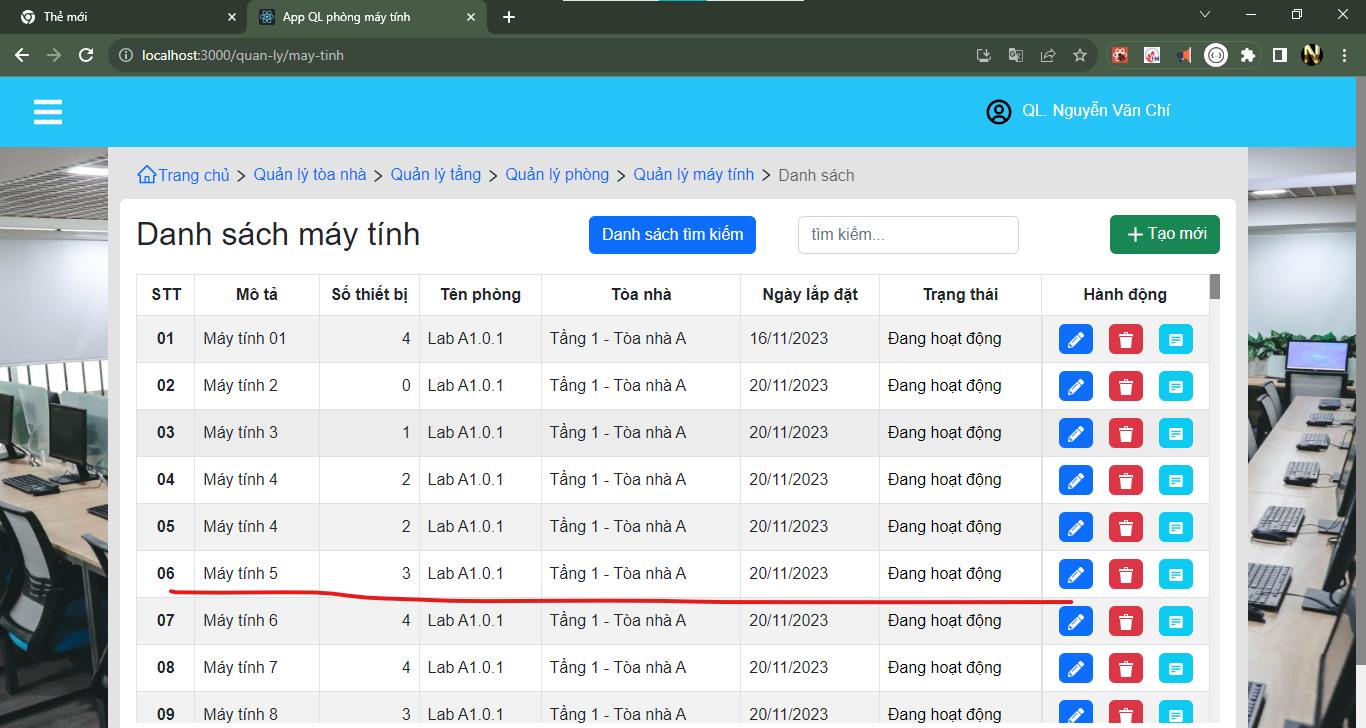
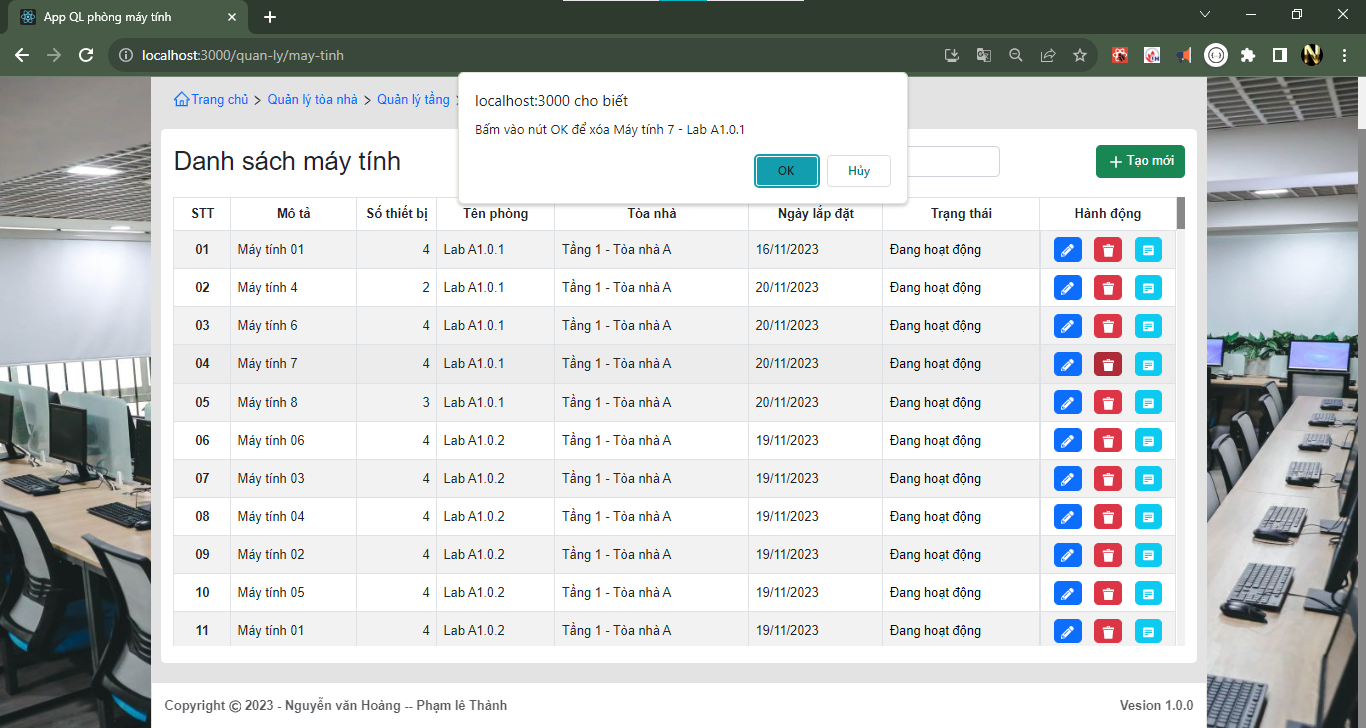
QLMayTinh - finish del api

diff --git a/src/redux/reducers/mayTinhReducer.jsx b/src/redux/reducers/mayTinhReducer.jsx
@@ -160,6 +160,31 @@ const mayTinhReducer = createSlice({
         valueSelTrangThai
       );
     },
+    deleteMayTinhAction: (state, action) => {
+      let maXoa = action.payload;
+
+      let arrUpdate = state.arrMayTinh.filter((item) => item.maMay != maXoa);
+
+      state.arrMayTinh = [...arrUpdate];
+      //
+      let {
+        arrMayTinh,
+        valueSearch,
+        valueSelPhongMay,
+        valueSelTang,
+        valueSelToaNha,
+        valueSelTrangThai,
+      } = state;
+
+      state.arrMayTinhSearch = dataSearch(
+        arrMayTinh,
+        valueSearch,
+        valueSelToaNha,
+        valueSelTang,
+        valueSelPhongMay,
+        valueSelTrangThai
+      );
+    },
   },
 });
 // exp nay de sử dụng theo cách 2
@@ -171,6 +196,7 @@ export const {
   setvalueSelPhongMay_MayTinhAction,
   setvalueSelTrangThai_MayTinhAction,
   insertMayTinhAction,
+  deleteMayTinhAction,
 } = mayTinhReducer.actions;
 export default mayTinhReducer.reducer;
 
@@ -240,6 +266,28 @@ const dataSearch = (
 
 // Call Api ++++++++++++++++++++++++++++++++++++++++++++++
 
+export const deleteMayTinhApi = (objMayTinh) => {
+  let { thietBiMays, maMay } = objMayTinh;
+  return async (dispatch) => {
+    try {
+      // xoas thiet bi may và mayTInh
+      thietBiMays?.forEach(async (item) => {
+        await http.delete(`/XoaMayTinhThietBi/${maMay}/${item.maThietBi}`);
+      });
+
+      // del may tinh api
+      await http.delete(`/XoaMayTinh/${maMay}`);
+
+      dispatch(deleteMayTinhAction(maMay));
+      dispatch(getAllPhongMayApi);
+      // reload data
+      dispatch(setStatusDataMoi(true));
+    } catch (error) {
+      console.log("🚀 ~ file: mayTinhReducer.jsx:248 ~ return ~ error:", error);
+    }
+  };
+};
+
 /**
  * // tao data luu server
  * // update data - api
@@ -270,7 +318,6 @@ export const updateMayTinhApi = ({
   return async (dispatch) => {
     try {
       let resultSaveMayTinh = await http.post("/LuuMayTinh", saveMayTinh);
-      console.log("🚀 ~ file: mayTinhReducer.jsx:273 ~ return ~ resultSaveMayTinh:", resultSaveMayTinh)
 
       //
       arrThietBi.forEach(async (item) => {

diff --git a/src/pages/PageQuanLy/PageQlMayTinh.jsx b/src/pages/PageQuanLy/PageQlMayTinh.jsx
@@ -9,6 +9,7 @@ import { BiSolidDetail } from "react-icons/bi";
 import { useDispatch, useSelector } from "react-redux";
 import { NavLink, useNavigate } from "react-router-dom";
 import {
+  deleteMayTinhApi,
   getAllMayTinhApi,
   setValueSearchMayTinhAction,
 } from "../../redux/reducers/mayTinhReducer";
@@ -79,8 +80,8 @@ export default function PageQlMayTinh() {
             </NavLink>
             <button
               onClick={() => {
-                if (window.confirm("Bấm vào nút OK để xóa " + item.tenTang)) {
-                  // dispatch(deleteTangApi(item.maMay));
+                if (window.confirm("Bấm vào nút OK để xóa " + item.moTa + ' - '+ item.phongMay.tenPhong)) {
+                  dispatch(deleteMayTinhApi(item));
                 }
               }}
               type="button"
